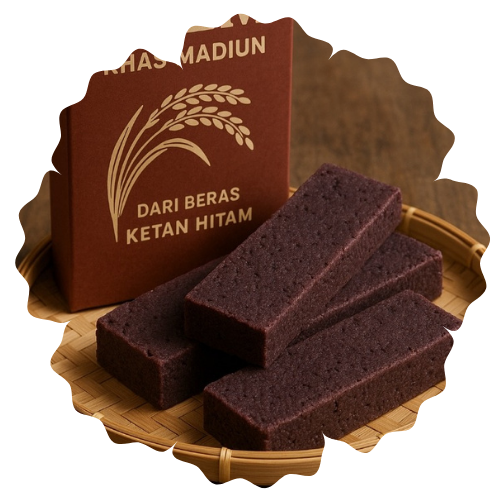
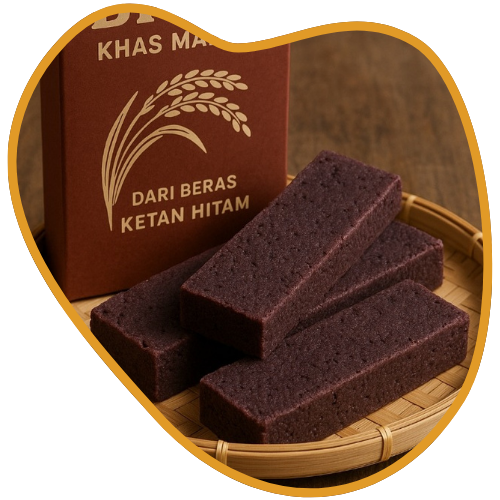
Add files via upload

diff --git a/index.html b/index.html
@@ -36,111 +36,116 @@
         </div>
     </header>
 
-    <section class="hero">
+    <section id="hero">
         <div class="snow-container">
-            <div class="snow-container">
-                <div class="snowflake" style="left: 3%; width: 5px; height: 5px; animation-duration: 6.5s, 2.8s, 2.1s;">
-                </div>
-                <div class="snowflake" style="left: 7%; width: 4px; height: 4px; animation-duration: 5.2s, 3.3s, 1.9s;">
-                </div>
-                <div class="snowflake"
-                    style="left: 12%; width: 6px; height: 6px; animation-duration: 7.1s, 3.7s, 2.4s;"></div>
-                <div class="snowflake"
-                    style="left: 18%; width: 3px; height: 3px; animation-duration: 4.4s, 2.9s, 1.7s;"></div>
-                <div class="snowflake" style="left: 22%; width: 7px; height: 7px; animation-duration: 6.8s, 4s, 2.6s;">
-                </div>
-                <div class="snowflake" style="left: 27%; width: 5px; height: 5px; animation-duration: 5.5s, 2.6s, 2s;">
-                </div>
-                <div class="snowflake"
-                    style="left: 31%; width: 3px; height: 3px; animation-duration: 4.8s, 3.1s, 2.1s;"></div>
-                <div class="snowflake"
-                    style="left: 36%; width: 6px; height: 6px; animation-duration: 7.4s, 3.5s, 2.3s;"></div>
-                <div class="snowflake" style="left: 41%; width: 4px; height: 4px; animation-duration: 5.9s, 3s, 1.8s;">
-                </div>
-                <div class="snowflake"
-                    style="left: 45%; width: 8px; height: 8px; animation-duration: 6.2s, 3.8s, 2.5s;"></div>
-                <div class="snowflake"
-                    style="left: 49%; width: 3px; height: 3px; animation-duration: 4.1s, 2.5s, 1.5s;"></div>
-                <div class="snowflake"
-                    style="left: 52%; width: 5px; height: 5px; animation-duration: 6.6s, 3.6s, 2.2s;"></div>
-                <div class="snowflake"
-                    style="left: 57%; width: 4px; height: 4px; animation-duration: 5.3s, 2.8s, 1.9s;"></div>
-                <div class="snowflake"
-                    style="left: 61%; width: 6px; height: 6px; animation-duration: 7.5s, 4.1s, 2.6s;"></div>
-                <div class="snowflake"
-                    style="left: 66%; width: 3px; height: 3px; animation-duration: 4.2s, 2.6s, 1.6s;"></div>
-                <div class="snowflake"
-                    style="left: 71%; width: 7px; height: 7px; animation-duration: 6.9s, 3.9s, 2.4s;"></div>
-                <div class="snowflake" style="left: 75%; width: 5px; height: 5px; animation-duration: 5.6s, 3.3s, 2s;">
-                </div>
-                <div class="snowflake"
-                    style="left: 78%; width: 3px; height: 3px; animation-duration: 4.3s, 2.7s, 1.7s;"></div>
-                <div class="snowflake"
-                    style="left: 82%; width: 6px; height: 6px; animation-duration: 7.3s, 3.6s, 2.3s;"></div>
-                <div class="snowflake"
-                    style="left: 86%; width: 4px; height: 4px; animation-duration: 5.7s, 3.2s, 1.9s;"></div>
-                <div class="snowflake"
-                    style="left: 89%; width: 8px; height: 8px; animation-duration: 6.1s, 3.7s, 2.5s;"></div>
-                <div class="snowflake" style="left: 93%; width: 3px; height: 3px; animation-duration: 4s, 2.4s, 1.5s;">
-                </div>
-                <div class="snowflake"
-                    style="left: 97%; width: 5px; height: 5px; animation-duration: 6.7s, 3.4s, 2.1s;"></div>
-                <div class="snowflake" style="left: 2%; width: 6px; height: 6px; animation-duration: 7.6s, 4.2s, 2.7s;">
-                </div>
-                <div class="snowflake" style="left: 6%; width: 4px; height: 4px; animation-duration: 5.4s, 3s, 1.8s;">
-                </div>
-                <div class="snowflake"
-                    style="left: 10%; width: 7px; height: 7px; animation-duration: 6.3s, 3.9s, 2.4s;"></div>
-                <div class="snowflake"
-                    style="left: 14%; width: 3px; height: 3px; animation-duration: 4.5s, 2.7s, 1.6s;"></div>
-                <div class="snowflake" style="left: 19%; width: 5px; height: 5px; animation-duration: 5.8s, 3.1s, 2s;">
-                </div>
-                <div class="snowflake"
-                    style="left: 23%; width: 6px; height: 6px; animation-duration: 7.2s, 3.8s, 2.5s;"></div>
-                <div class="snowflake" style="left: 28%; width: 4px; height: 4px; animation-duration: 5s, 2.9s, 1.8s;">
-                </div>
-                <div class="snowflake"
-                    style="left: 33%; width: 8px; height: 8px; animation-duration: 6.5s, 3.6s, 2.3s;"></div>
-                <div class="snowflake"
-                    style="left: 37%; width: 3px; height: 3px; animation-duration: 4.6s, 2.5s, 1.6s;"></div>
-                <div class="snowflake" style="left: 42%; width: 6px; height: 6px; animation-duration: 7s, 3.7s, 2.2s;">
-                </div>
-                <div class="snowflake" style="left: 47%; width: 5px; height: 5px; animation-duration: 5.1s, 3.2s, 2s;">
-                </div>
-                <div class="snowflake"
-                    style="left: 51%; width: 3px; height: 3px; animation-duration: 4.7s, 2.6s, 1.7s;"></div>
-                <div class="snowflake"
-                    style="left: 56%; width: 6px; height: 6px; animation-duration: 7.7s, 3.5s, 2.4s;"></div>
-                <div class="snowflake" style="left: 60%; width: 4px; height: 4px; animation-duration: 5.6s, 3s, 1.9s;">
-                </div>
-                <div class="snowflake"
-                    style="left: 64%; width: 7px; height: 7px; animation-duration: 6.4s, 3.3s, 2.3s;"></div>
-                <div class="snowflake"
-                    style="left: 68%; width: 3px; height: 3px; animation-duration: 4.3s, 2.4s, 1.5s;"></div>
-                <div class="snowflake" style="left: 73%; width: 5px; height: 5px; animation-duration: 6.6s, 3.6s, 2s;">
-                </div>
-                <div class="snowflake" style="left: 77%; width: 6px; height: 6px; animation-duration: 7.8s, 4s, 2.6s;">
-                </div>
-                <div class="snowflake"
-                    style="left: 81%; width: 4px; height: 4px; animation-duration: 5.5s, 3.1s, 1.8s;"></div>
-                <div class="snowflake"
-                    style="left: 85%; width: 8px; height: 8px; animation-duration: 6.3s, 3.7s, 2.5s;"></div>
-                <div class="snowflake"
-                    style="left: 90%; width: 3px; height: 3px; animation-duration: 4.2s, 2.3s, 1.6s;"></div>
-                <div class="snowflake"
-                    style="left: 94%; width: 6px; height: 6px; animation-duration: 7.1s, 3.4s, 2.2s;"></div>
-                <div class="snowflake"
-                    style="left: 98%; width: 5px; height: 5px; animation-duration: 5.9s, 3.5s, 2.1s;"></div>
+            <div class="snowflake" style="left: 3%; width: 5px; height: 5px; animation-duration: 6.5s, 2.8s, 2.1s;">
             </div>
+            <div class="snowflake" style="left: 7%; width: 4px; height: 4px; animation-duration: 5.2s, 3.3s, 1.9s;">
+            </div>
+            <div class="snowflake"
+                style="left: 12%; width: 6px; height: 6px; animation-duration: 7.1s, 3.7s, 2.4s;"></div>
+            <div class="snowflake"
+                style="left: 18%; width: 3px; height: 3px; animation-duration: 4.4s, 2.9s, 1.7s;"></div>
+            <div class="snowflake" style="left: 22%; width: 7px; height: 7px; animation-duration: 6.8s, 4s, 2.6s;">
+            </div>
+            <div class="snowflake" style="left: 27%; width: 5px; height: 5px; animation-duration: 5.5s, 2.6s, 2s;">
+            </div>
+            <div class="snowflake"
+                style="left: 31%; width: 3px; height: 3px; animation-duration: 4.8s, 3.1s, 2.1s;"></div>
+            <div class="snowflake"
+                style="left: 36%; width: 6px; height: 6px; animation-duration: 7.4s, 3.5s, 2.3s;"></div>
+            <div class="snowflake" style="left: 41%; width: 4px; height: 4px; animation-duration: 5.9s, 3s, 1.8s;">
+            </div>
+            <div class="snowflake"
+                style="left: 45%; width: 8px; height: 8px; animation-duration: 6.2s, 3.8s, 2.5s;"></div>
+            <div class="snowflake"
+                style="left: 49%; width: 3px; height: 3px; animation-duration: 4.1s, 2.5s, 1.5s;"></div>
+            <div class="snowflake"
+                style="left: 52%; width: 5px; height: 5px; animation-duration: 6.6s, 3.6s, 2.2s;"></div>
+            <div class="snowflake"
+                style="left: 57%; width: 4px; height: 4px; animation-duration: 5.3s, 2.8s, 1.9s;"></div>
+            <div class="snowflake"
+                style="left: 61%; width: 6px; height: 6px; animation-duration: 7.5s, 4.1s, 2.6s;"></div>
+            <div class="snowflake"
+                style="left: 66%; width: 3px; height: 3px; animation-duration: 4.2s, 2.6s, 1.6s;"></div>
+            <div class="snowflake"
+                style="left: 71%; width: 7px; height: 7px; animation-duration: 6.9s, 3.9s, 2.4s;"></div>
+            <div class="snowflake" style="left: 75%; width: 5px; height: 5px; animation-duration: 5.6s, 3.3s, 2s;">
+            </div>
+            <div class="snowflake"
+                style="left: 78%; width: 3px; height: 3px; animation-duration: 4.3s, 2.7s, 1.7s;"></div>
+            <div class="snowflake"
+                style="left: 82%; width: 6px; height: 6px; animation-duration: 7.3s, 3.6s, 2.3s;"></div>
+            <div class="snowflake"
+                style="left: 86%; width: 4px; height: 4px; animation-duration: 5.7s, 3.2s, 1.9s;"></div>
+            <div class="snowflake"
+                style="left: 89%; width: 8px; height: 8px; animation-duration: 6.1s, 3.7s, 2.5s;"></div>
+            <div class="snowflake" style="left: 93%; width: 3px; height: 3px; animation-duration: 4s, 2.4s, 1.5s;">
+            </div>
+            <div class="snowflake"
+                style="left: 97%; width: 5px; height: 5px; animation-duration: 6.7s, 3.4s, 2.1s;"></div>
+            <div class="snowflake" style="left: 2%; width: 6px; height: 6px; animation-duration: 7.6s, 4.2s, 2.7s;">
+            </div>
+            <div class="snowflake" style="left: 6%; width: 4px; height: 4px; animation-duration: 5.4s, 3s, 1.8s;">
+            </div>
+            <div class="snowflake"
+                style="left: 10%; width: 7px; height: 7px; animation-duration: 6.3s, 3.9s, 2.4s;"></div>
+            <div class="snowflake"
+                style="left: 14%; width: 3px; height: 3px; animation-duration: 4.5s, 2.7s, 1.6s;"></div>
+            <div class="snowflake" style="left: 19%; width: 5px; height: 5px; animation-duration: 5.8s, 3.1s, 2s;">
+            </div>
+            <div class="snowflake"
+                style="left: 23%; width: 6px; height: 6px; animation-duration: 7.2s, 3.8s, 2.5s;"></div>
+            <div class="snowflake" style="left: 28%; width: 4px; height: 4px; animation-duration: 5s, 2.9s, 1.8s;">
+            </div>
+            <div class="snowflake"
+                style="left: 33%; width: 8px; height: 8px; animation-duration: 6.5s, 3.6s, 2.3s;"></div>
+            <div class="snowflake"
+                style="left: 37%; width: 3px; height: 3px; animation-duration: 4.6s, 2.5s, 1.6s;"></div>
+            <div class="snowflake" style="left: 42%; width: 6px; height: 6px; animation-duration: 7s, 3.7s, 2.2s;">
+            </div>
+            <div class="snowflake" style="left: 47%; width: 5px; height: 5px; animation-duration: 5.1s, 3.2s, 2s;">
+            </div>
+            <div class="snowflake"
+                style="left: 51%; width: 3px; height: 3px; animation-duration: 4.7s, 2.6s, 1.7s;"></div>
+            <div class="snowflake"
+                style="left: 56%; width: 6px; height: 6px; animation-duration: 7.7s, 3.5s, 2.4s;"></div>
+            <div class="snowflake" style="left: 60%; width: 4px; height: 4px; animation-duration: 5.6s, 3s, 1.9s;">
+            </div>
+            <div class="snowflake"
+                style="left: 64%; width: 7px; height: 7px; animation-duration: 6.4s, 3.3s, 2.3s;"></div>
+            <div class="snowflake"
+                style="left: 68%; width: 3px; height: 3px; animation-duration: 4.3s, 2.4s, 1.5s;"></div>
+            <div class="snowflake" style="left: 73%; width: 5px; height: 5px; animation-duration: 6.6s, 3.6s, 2s;">
+            </div>
+            <div class="snowflake" style="left: 77%; width: 6px; height: 6px; animation-duration: 7.8s, 4s, 2.6s;">
+            </div>
+            <div class="snowflake"
+                style="left: 81%; width: 4px; height: 4px; animation-duration: 5.5s, 3.1s, 1.8s;"></div>
+            <div class="snowflake"
+                style="left: 85%; width: 8px; height: 8px; animation-duration: 6.3s, 3.7s, 2.5s;"></div>
+            <div class="snowflake"
+                style="left: 90%; width: 3px; height: 3px; animation-duration: 4.2s, 2.3s, 1.6s;"></div>
+            <div class="snowflake"
+                style="left: 94%; width: 6px; height: 6px; animation-duration: 7.1s, 3.4s, 2.2s;"></div>
+            <div class="snowflake"
+                style="left: 98%; width: 5px; height: 5px; animation-duration: 5.9s, 3.5s, 2.1s;"></div>
         </div>
 
         <div class="hero-container">
-            <h1>Selamat Datang di Situs Kami</h1>
-            <img src="src/hero-product/3.png">
+            <div class="hero-content">
+                <div>
+                    <h1>Selamat Datang di Situs Kami</h1>
+                    <div class="btn-container">
+                        <a href="#introduction">Selengkapnya</a>
+                    </div>
+                </div>
+                <img src="src/hero-product/3.png">
+            </div>
         </div>
     </section>
 
-    <section>
+    <section id="introduction">
         Lorem, ipsum dolor sit amet consectetur adipisicing elit. Voluptatum inventore sunt non, repellendus corrupti
         vitae ea alias. Sequi expedita debitis, facere ullam ipsa a minima temporibus laborum laudantium adipisci
         aspernatur.
@@ -163,6 +168,8 @@
         Facere non aspernatur at velit ipsum quibusdam culpa numquam. Possimus illum fugiat ut inventore consequuntur
         cum iure, itaque quis natus aspernatur vitae saepe. Voluptates, ab rerum doloremque totam enim impedit!
     </section>
+
+    <script src="script.js"></script>
 </body>
 
 </html>

diff --git a/css/style.css b/css/style.css
@@ -68,7 +68,7 @@ body {
     user-select: none;
 }
 
-.hero {
+#hero {
     height: 90vh;
     display: flex;
     flex-direction: column;
@@ -88,7 +88,7 @@ body {
 
 }
 
-.hero h1 {
+#hero h1 {
     font-size: 3em;
     margin-bottom: 0.5em;
     opacity: 0;
@@ -96,12 +96,38 @@ body {
     animation-delay: 1s;
 }
 
-.hero p {
-    font-size: 1.5em;
-    max-width: 600px;
+#hero .hero-container .hero-content {
+    display: flex;
+    justify-content: center;
+    align-items: center;
+}
+
+#hero .hero-container .hero-content img {
+    scale: 80%;
+}
+
+#hero .hero-container .hero-content .btn-container {
+    display: flex;
+}
+
+#hero .hero-container .hero-content .btn-container a {
+    background-color: orange;
+    font-size: 20px;
+    font-weight: bolder;
+    display: inline-block;
+    padding: 10px 20px;
+    color: white;
+    text-decoration: none;
+    border-radius: 5px;
+    font-size: 16px;
     opacity: 0;
-    animation: fadeIn 2s ease-out forwards;
-    animation-delay: 2s;
+    animation: fadeIn 3s ease-out forwards;
+    transition: .5s ease;
+}
+
+#hero .hero-container .hero-content .btn-container a:hover {
+    background-color: white;
+    color: black;
 }
 
 .snow-container {

diff --git a/script.js b/script.js
@@ -1,0 +1,8 @@
+const elementImg = document.querySelector(".hero-content img");
+const listImage = ["src/hero-product/3.png", "src/hero-product/4.png", "src/hero-product/5.png", "src/hero-product/3.png"];
+let i = 0
+function gantiGbr() {
+  elementImg.src = listImage[i];
+  i = (i + 1) % listImage.length;
+}
+setInterval(gantiGbr, 5000)
